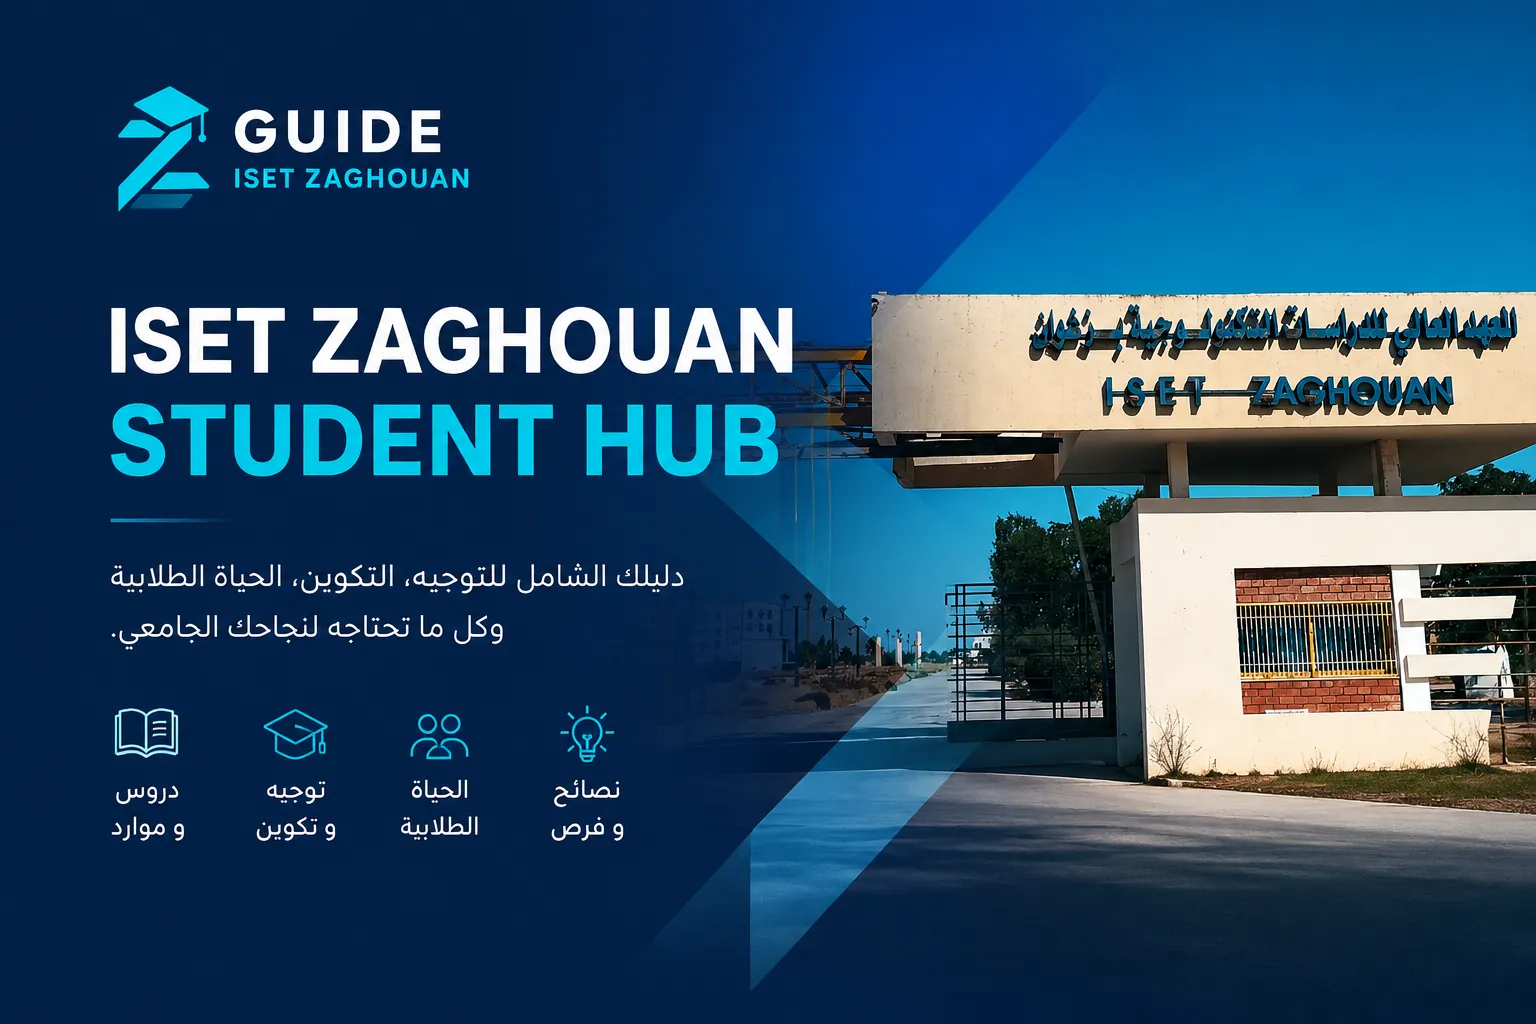
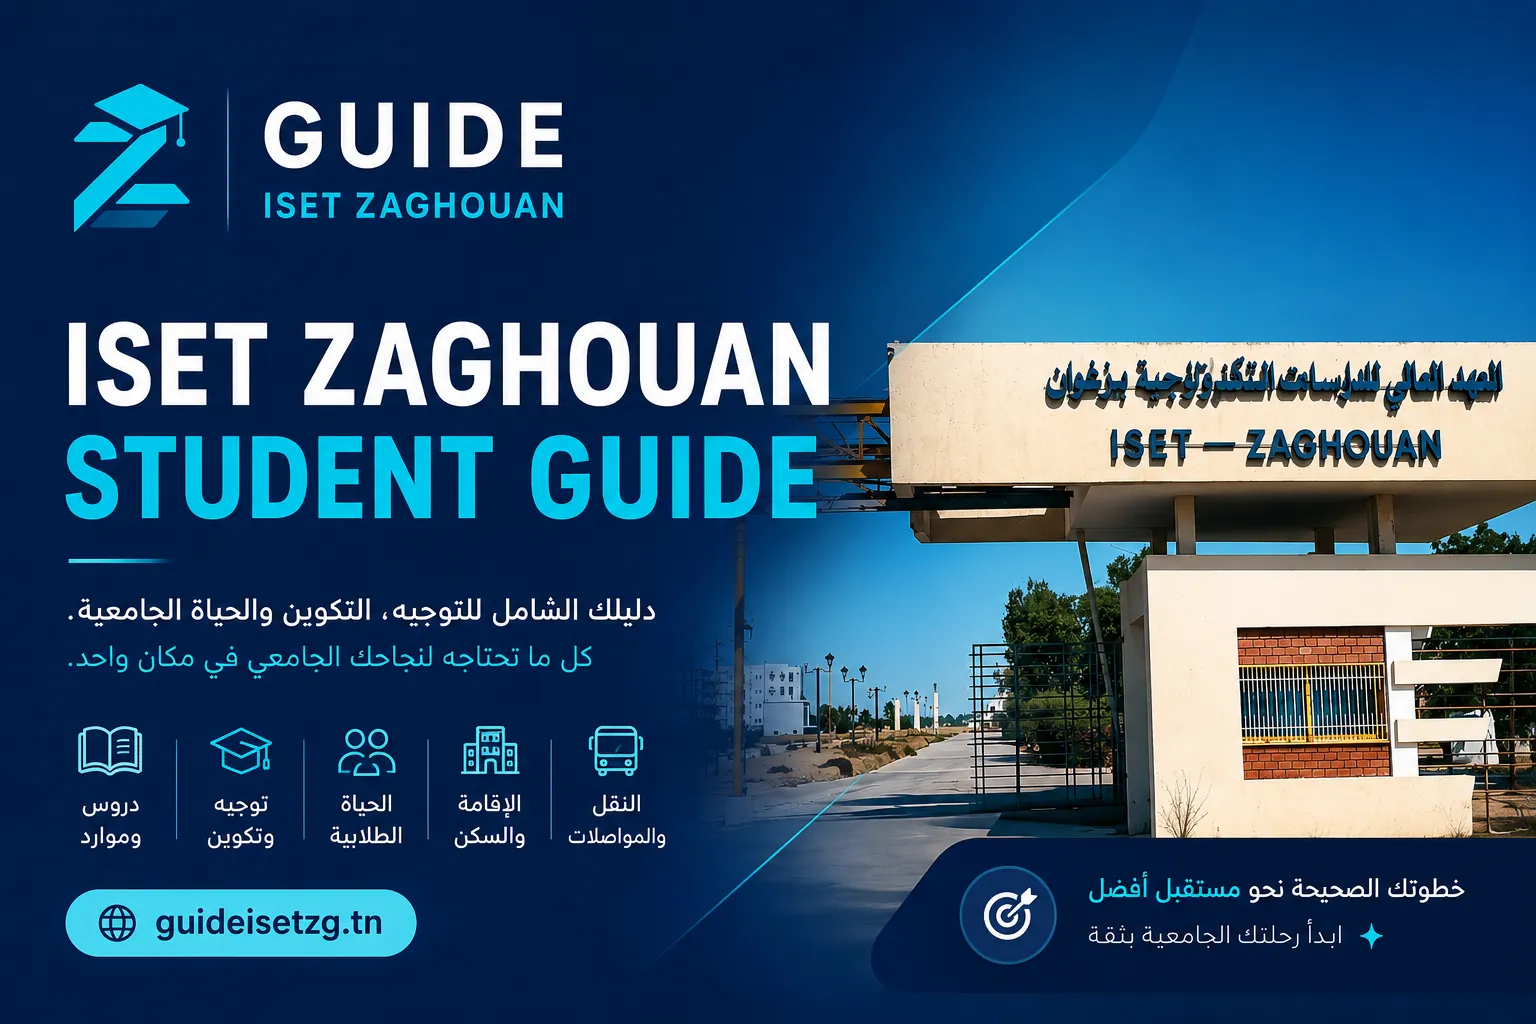
fix: update text in HeroSection from "Student hub" to "Student guide"

diff --git a/src/components/sections/HeroSection.tsx b/src/components/sections/HeroSection.tsx
@@ -82,7 +82,7 @@ export function HeroSection() {
             ISET ZAGHOUAN
             <br />
             <span className="bg-gradient-to-br from-[#12B8C8] to-[#F6B41B] bg-clip-text text-transparent">
-              Student hub
+              Student guide
             </span>
           </h1>
 